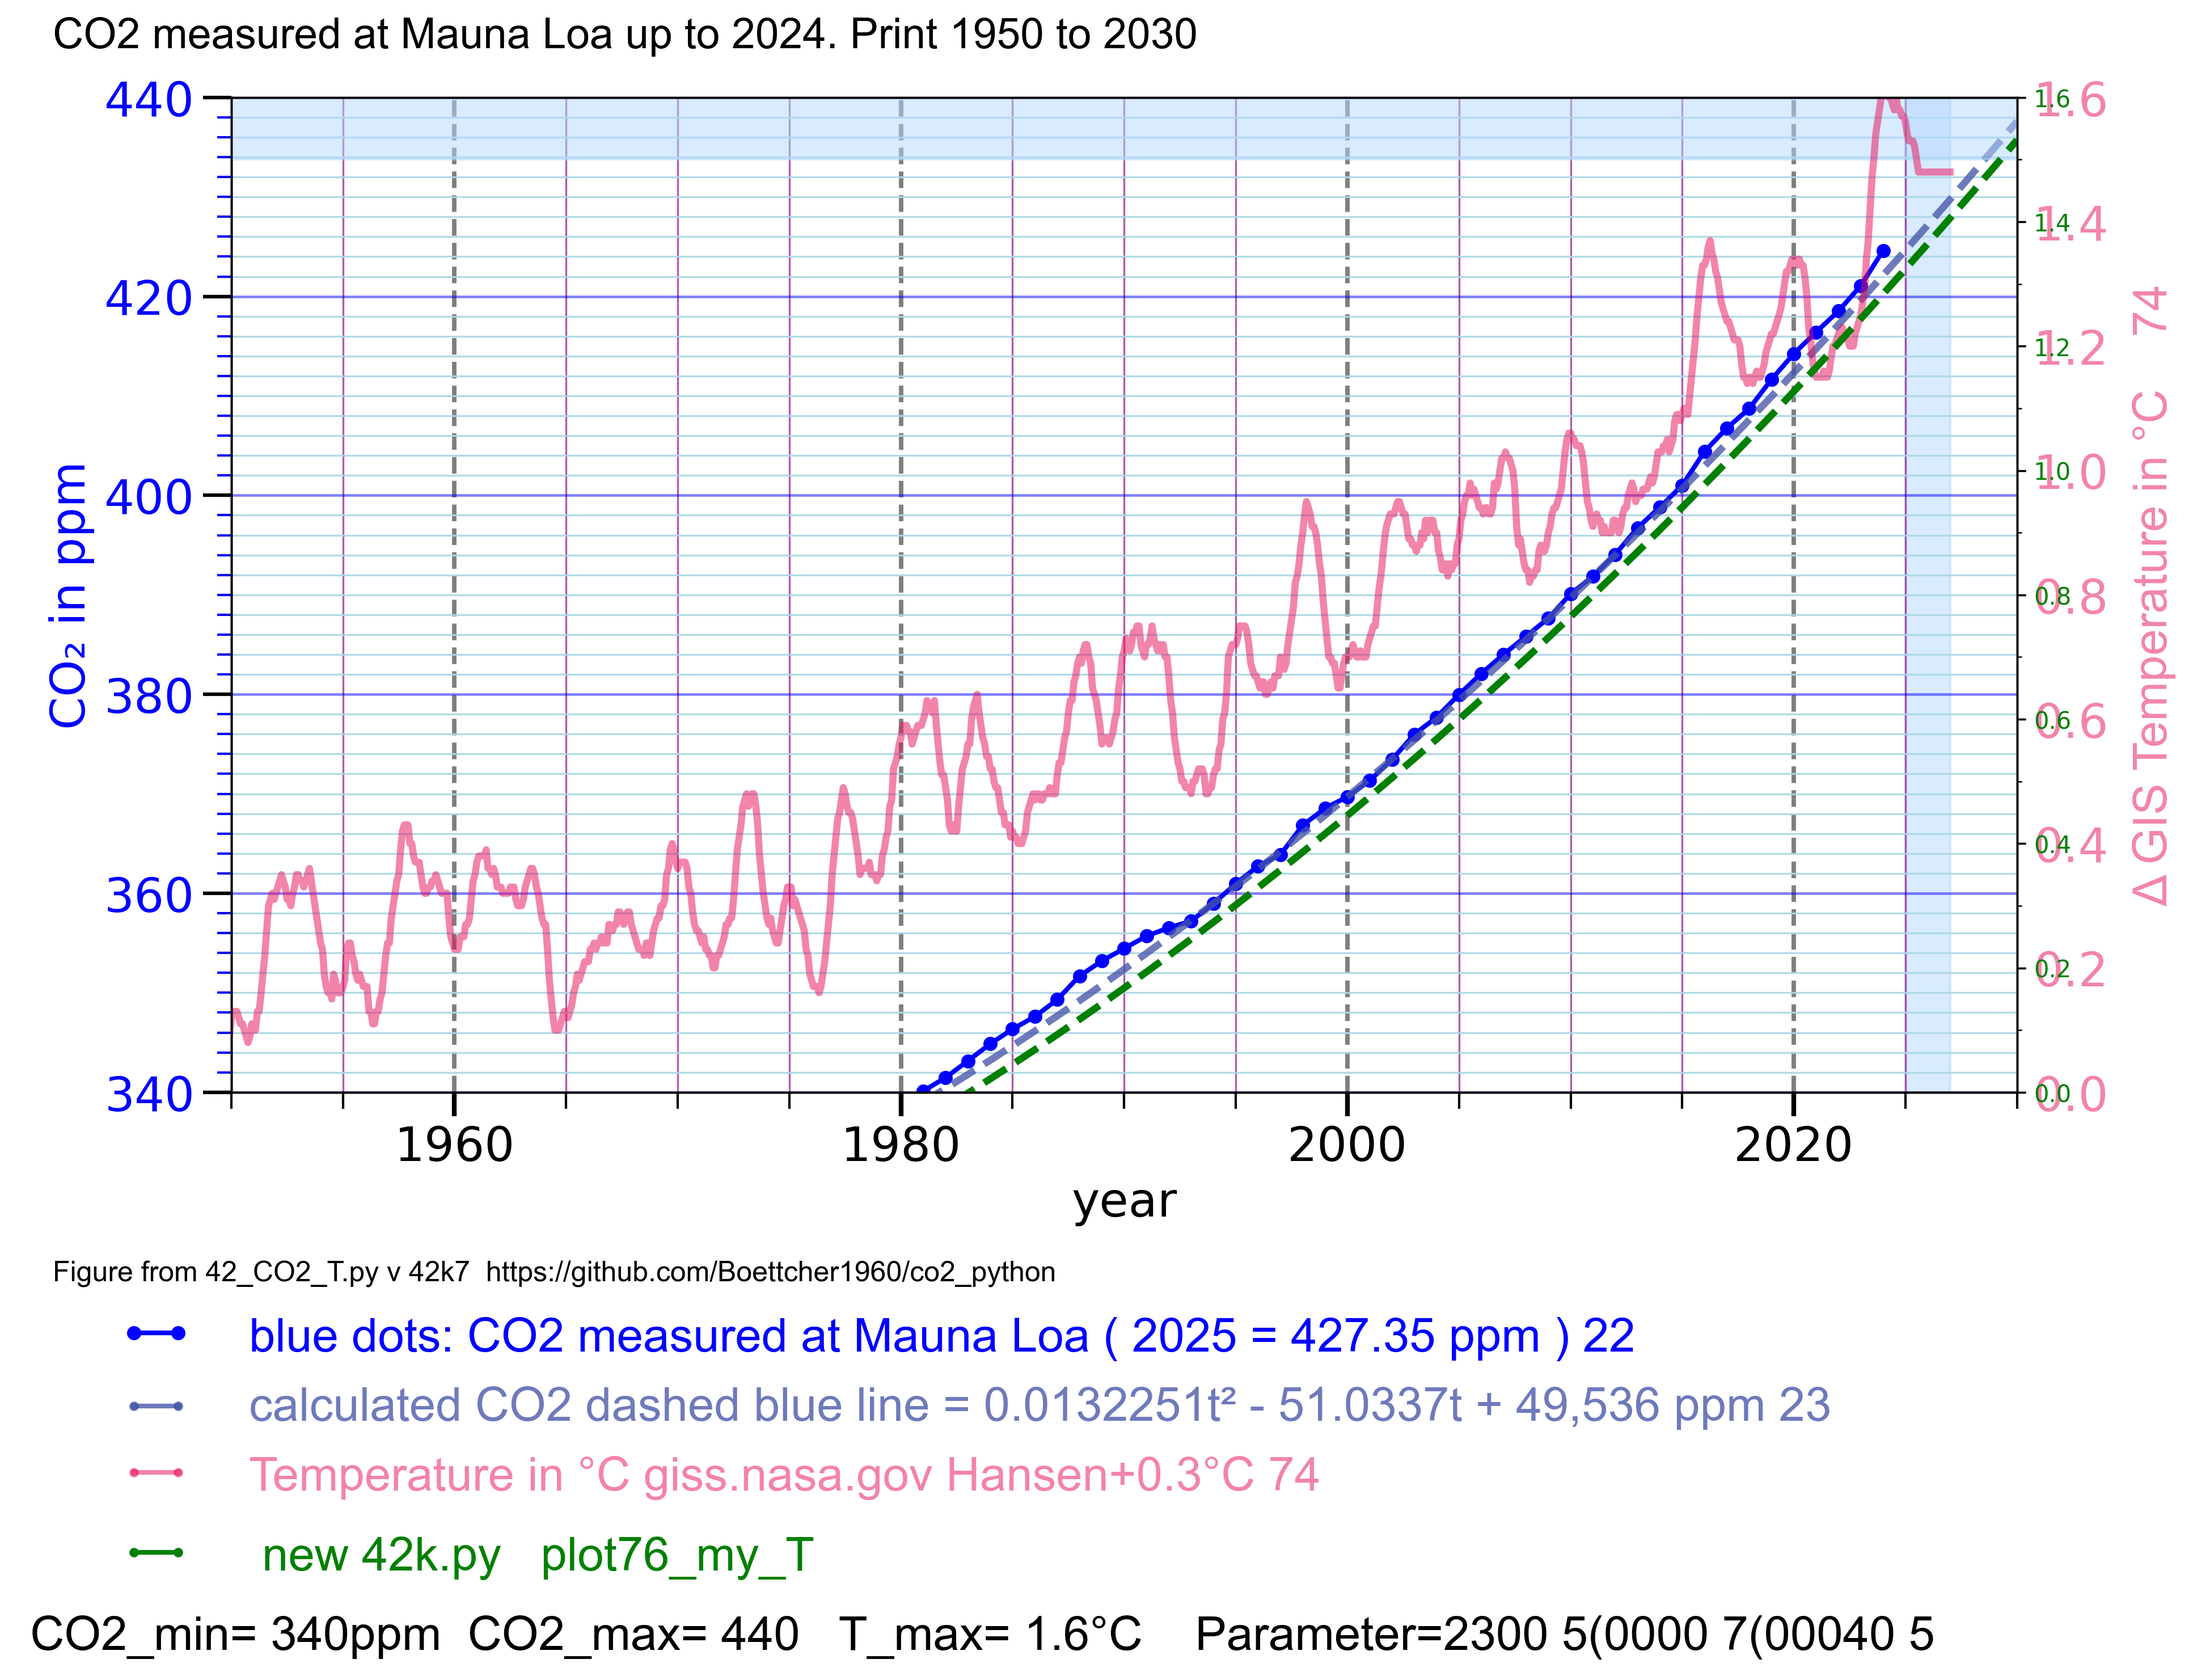
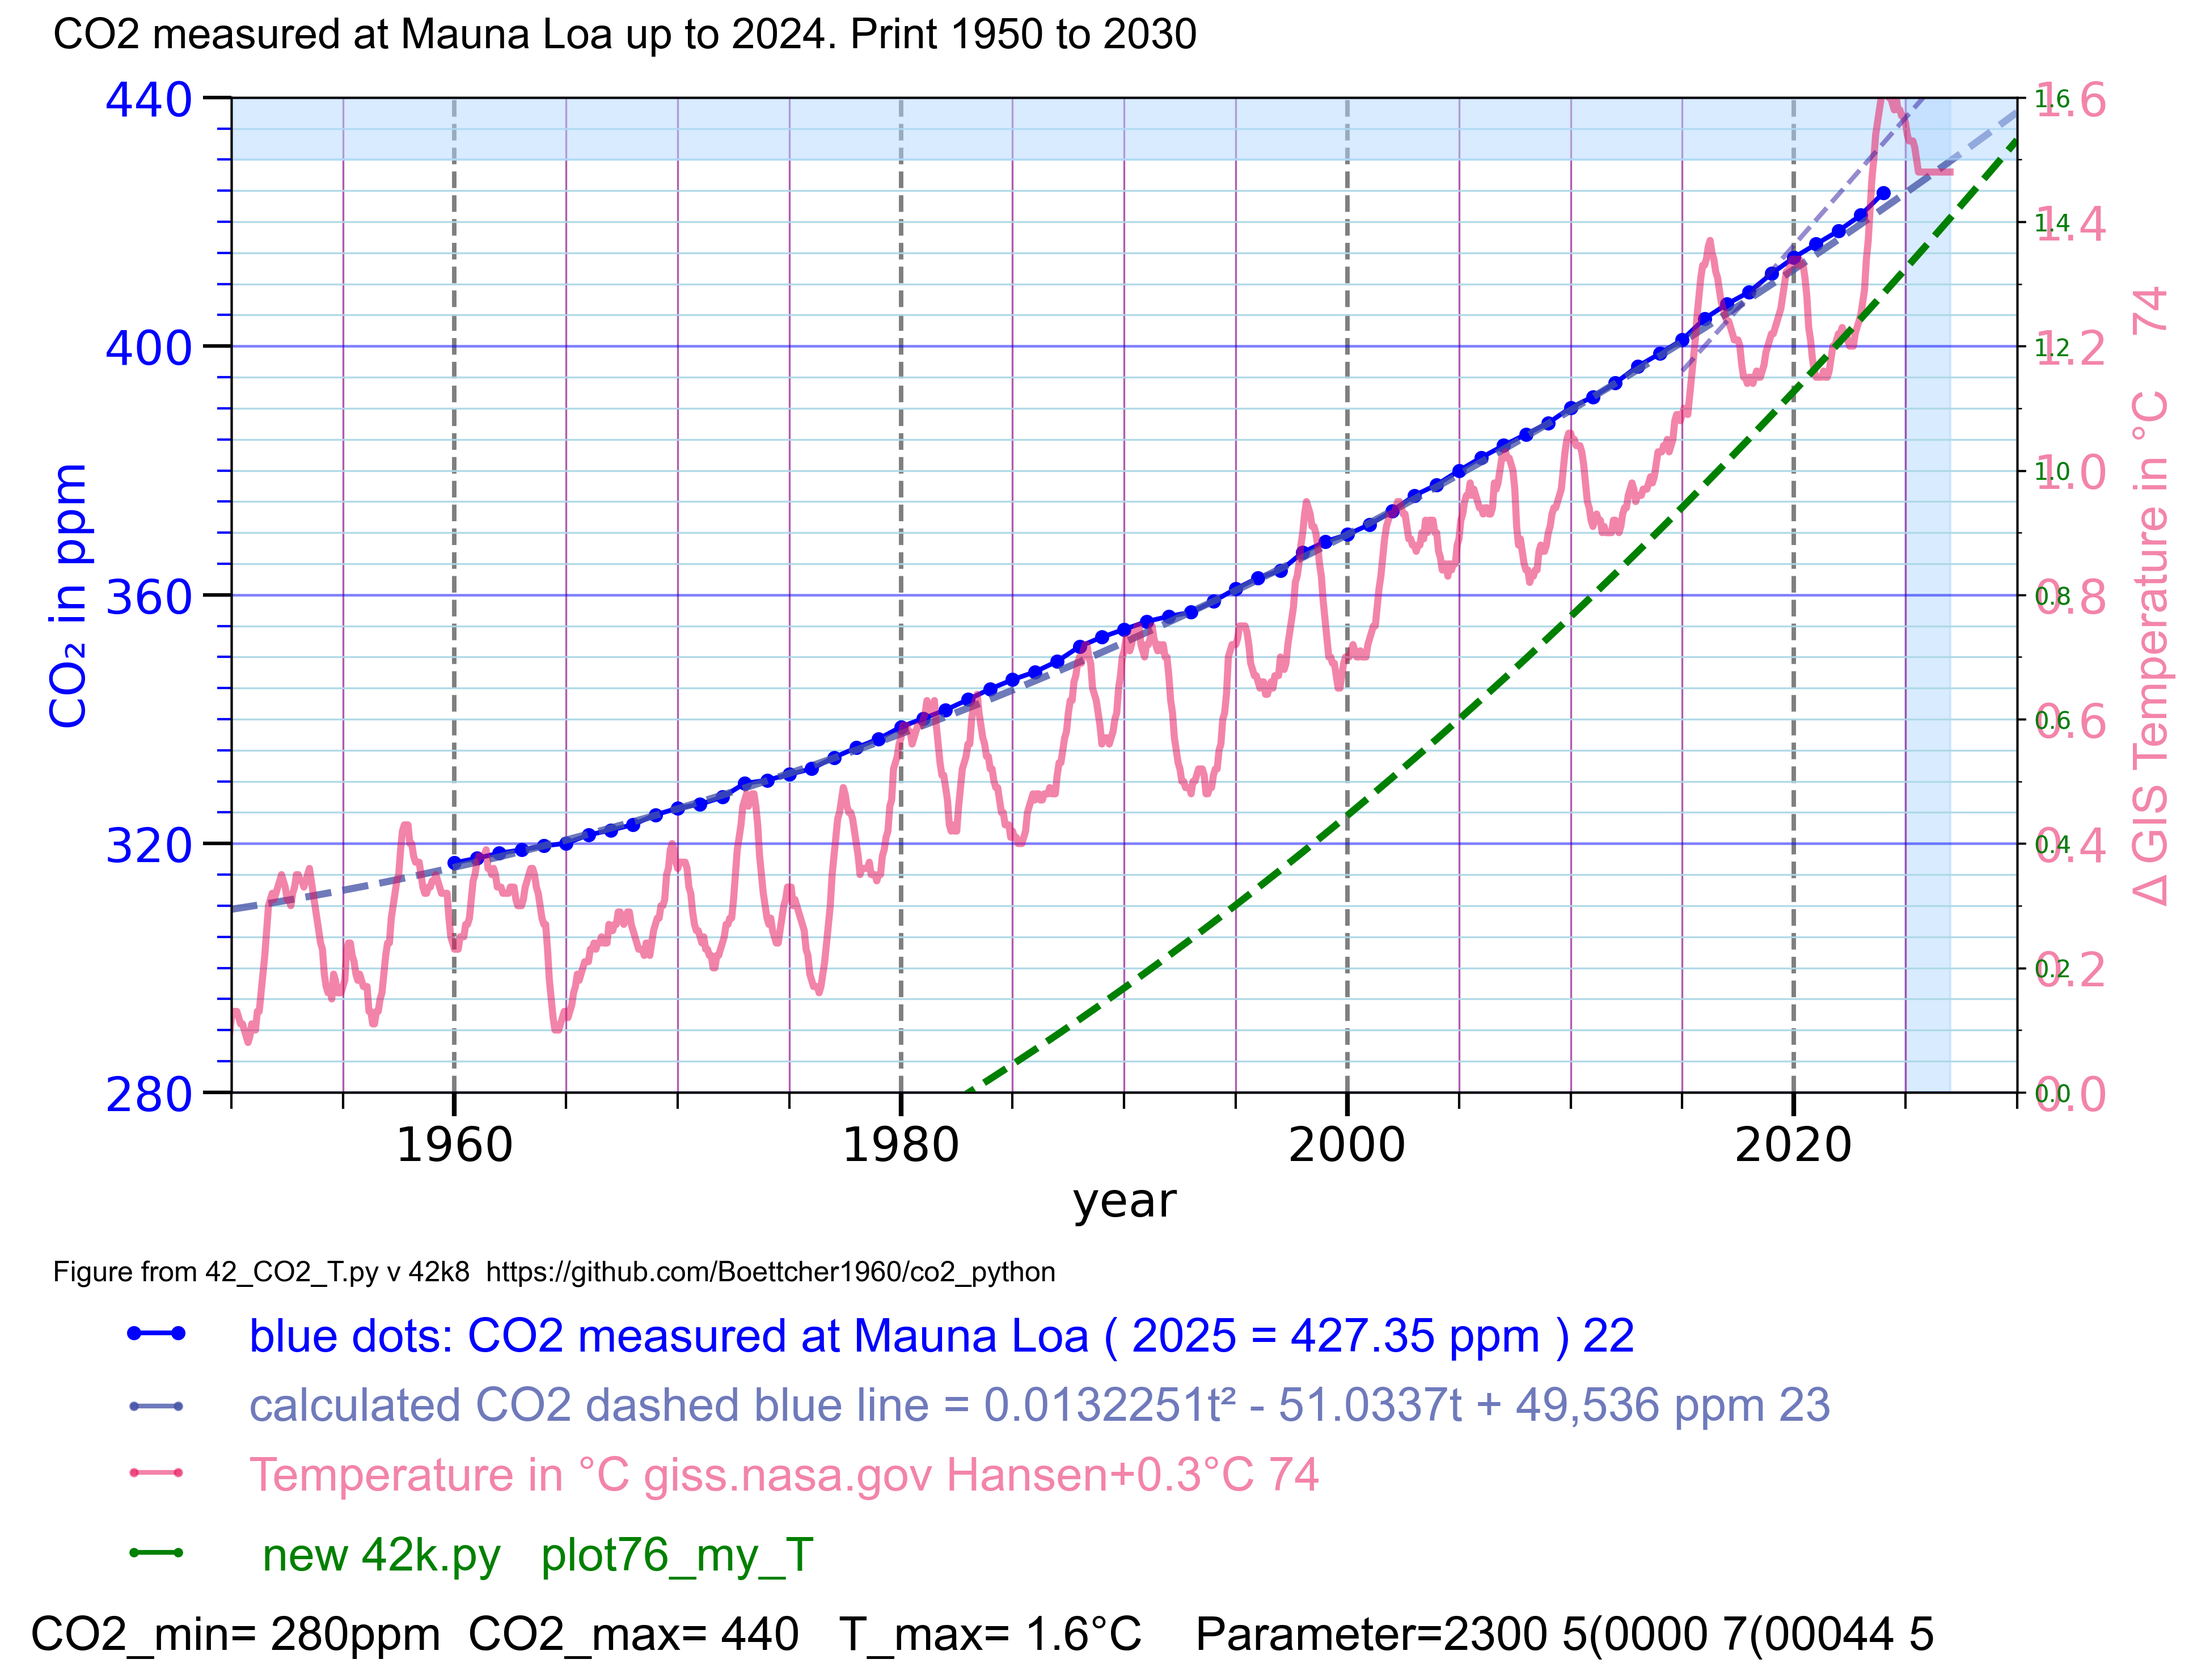
v = "42k8" #  plot76_my_T

Changed region(s): [[0.031, 0.0623, 0.931, 0.6538], [0.8379, 0.9651, 0.8689, 0.9963], [0.1241, 0.9651, 0.1552, 0.9963]]

diff --git a/42_CO2_T.py b/42_CO2_T.py
@@ -1,5 +1,5 @@
 # 42_CO2_T.py 
-v = "42k7" #  plot76_my_T
+v = "42k8" #  plot76_my_T
 # Thomas Boettcher
 # part 1 configure 
 # part 2.2 plot CO2 Mauna Loa
@@ -67,7 +67,7 @@ plot72_AESS_T = 0      # 4,5,0 apparent Earth system sensitivity (AESS=7.7°C)
 plot73_ECS_T  = 0       # 6,5 #  Earth Climate sensitivity (ECS=4.5°C)
 plot74_GIS_T  = 4 #
 c74                  = "#E8125984" # plot74 color
-linear_41_75  = 0 # part 75    Hansen 2015 .41°C linear fit
+linear_41_75  = 4 # part 75    Hansen 2015 .41°C linear fit
 c75                 = "#371EA484" # plot75 color
 plot76_my_T  =  5 #
 c76                  = "#A8349DC5" # plot76 color
@@ -86,7 +86,7 @@ else:
 C280=280 # CO2 concentration 1750 275 ppm
 
 # 1.3.1 scale the left Y axis
-y_min = 340 # 300 # min value 280
+y_min = 280 # 300 # min value 280
 y_max = 440 # 1300 # min value 440 70
 
 # 1.3.2 scale the right Y axis
